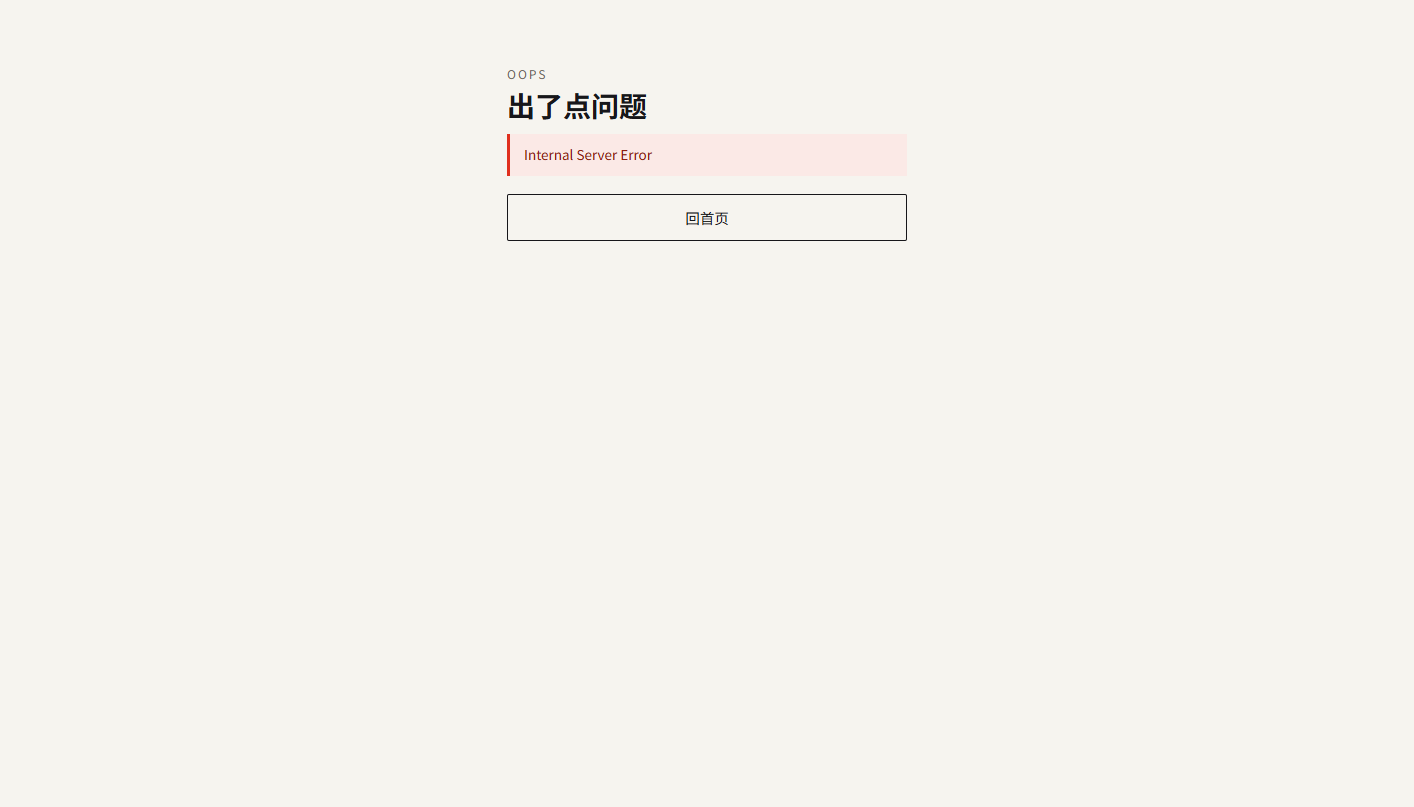
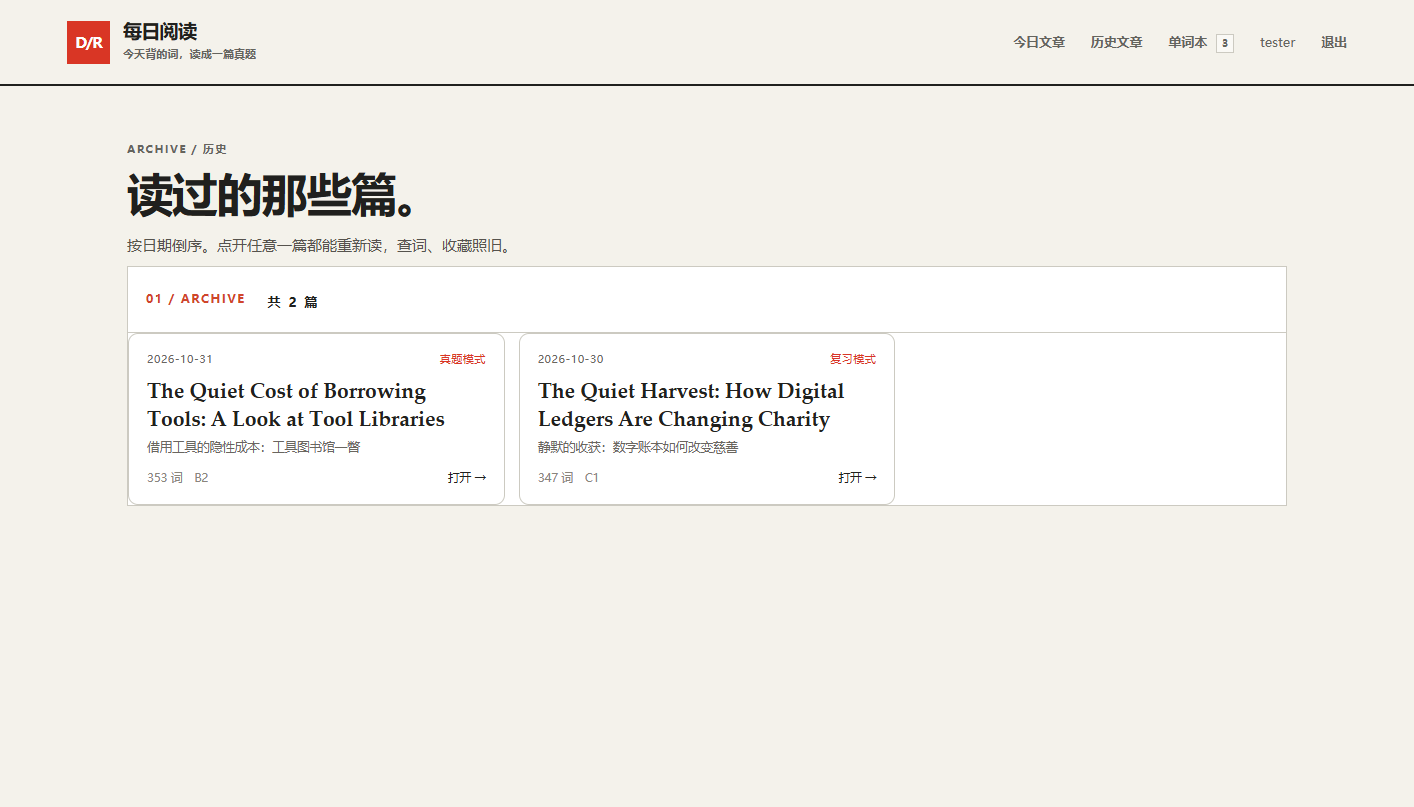
style: 单词本/历史页用宽容器，修 archive 页 500

diff --git a/src/main/resources/static/css/bauhaus.css b/src/main/resources/static/css/bauhaus.css
@@ -1269,3 +1269,11 @@ kbd {
 
 /* bauhaus.css 里 main > section 被固定成 --page 宽，单词本/历史页要占满容器 */
 .vocab-main > section, .archive-main > section { width: auto; max-width: none; }
+
+.vocab-main, .archive-main { width: auto; max-width: 1160px; }
+
+main.vocab-main, main.archive-main {
+  width: 100%; max-width: 1160px; margin: 0 auto; padding: 0 0 80px;
+  align-self: center; box-sizing: border-box;
+}
+main.vocab-main > section, main.archive-main > section { width: 100%; }

diff --git a/src/main/java/com/dailyreading/controller/PageController.java b/src/main/java/com/dailyreading/controller/PageController.java
@@ -35,6 +35,8 @@ public class PageController {
         Long userId = userId(session);
         model.addAttribute("username", session.getAttribute(AuthController.SESSION_USERNAME));
         model.addAttribute("active", "archive");
+        model.addAttribute("learning", markService.count(userId, "learning"));
+        model.addAttribute("mastered", markService.count(userId, "mastered"));
         model.addAttribute("articles", articleService.list(userId));
         return "archive";
     }
